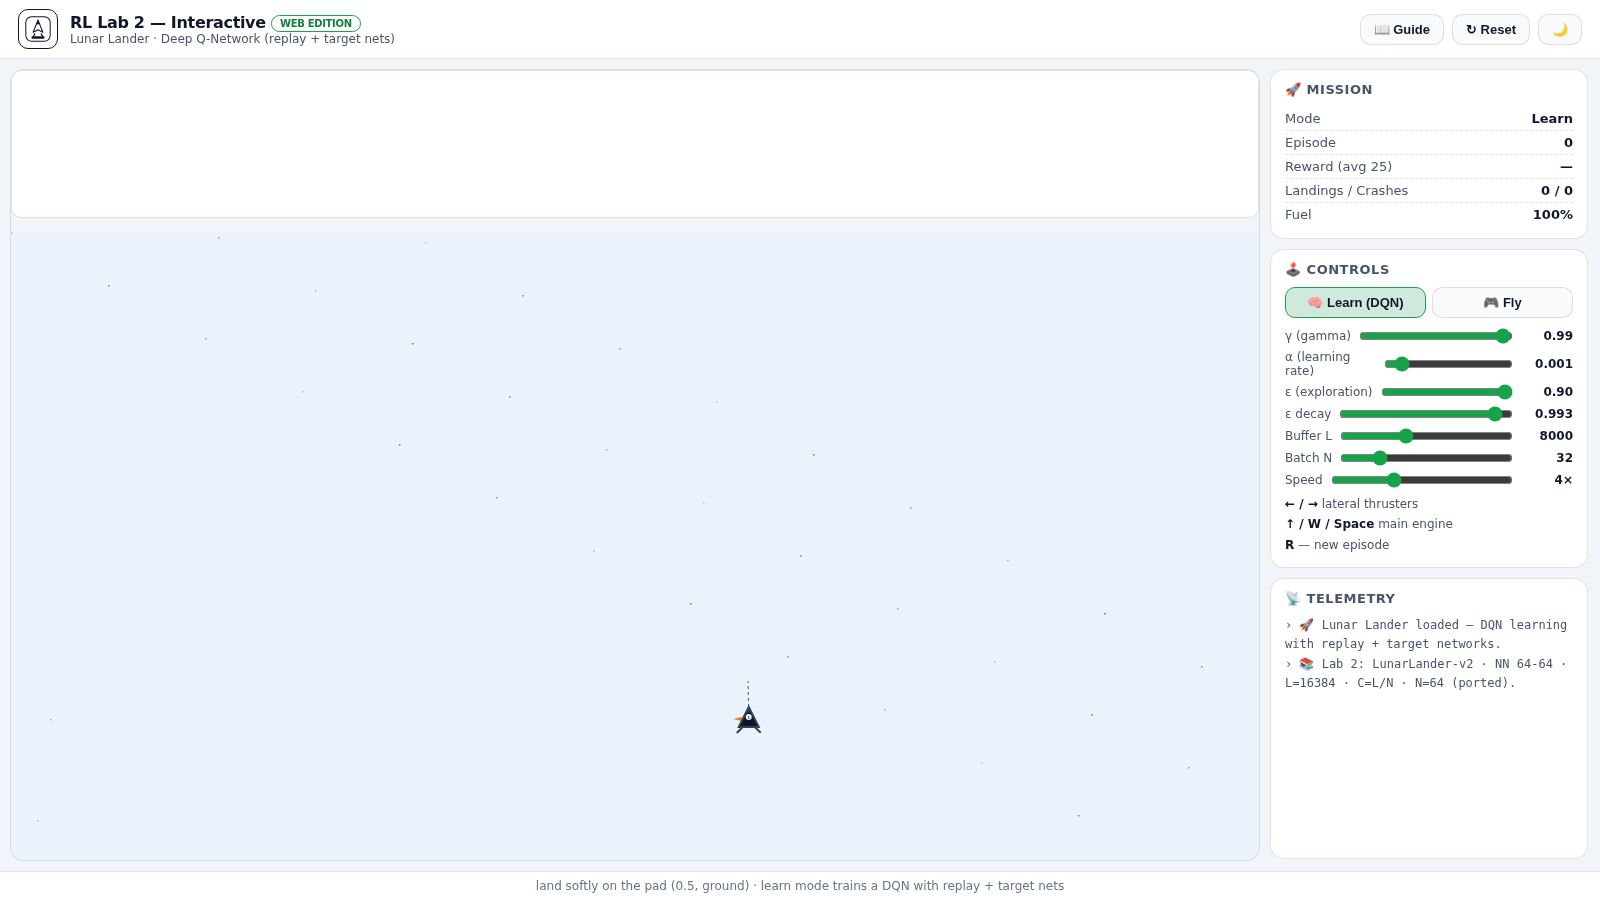
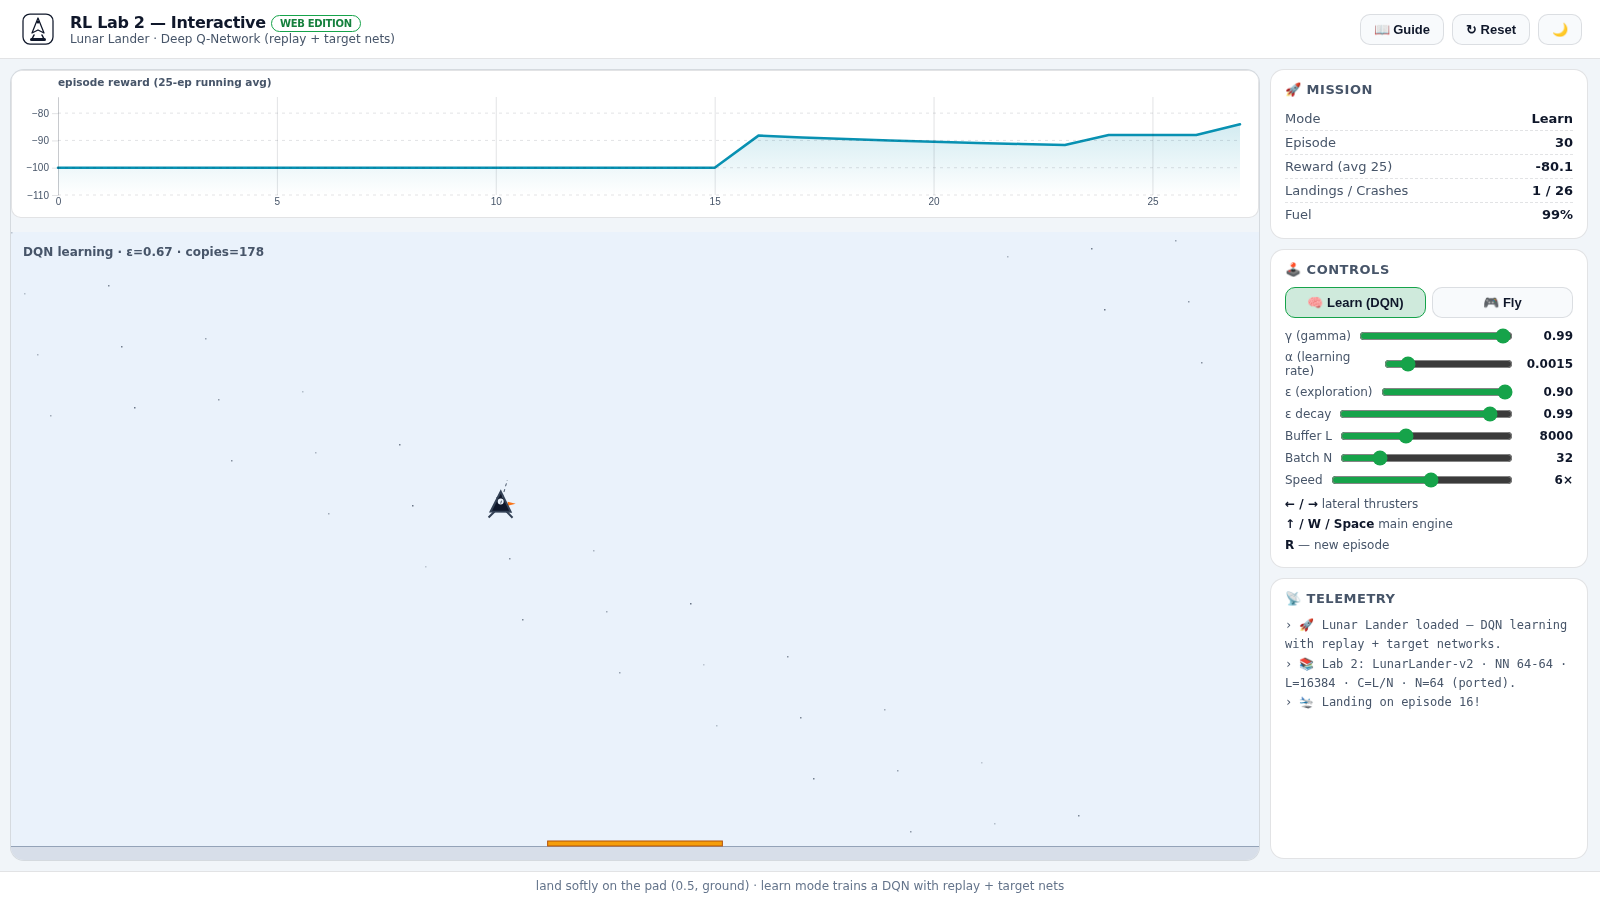
perf: DQN converges 2x faster — tuned defaults (alpha 0.0015, eps decay 0.99, speed 6) + configurable double-DQN flag
benchmarked 6 configs in node: L=8000/C=64/alpha 1.5e-3/decay 0.99 (max-target) wins — first landing episode 22 vs 49, and 2 landings by episode 33 in ~4s at speed 6 in the browser

diff --git a/webgame/index.html b/webgame/index.html
@@ -139,8 +139,8 @@
                 min="0.0001"
                 max="0.01"
                 step="0.0001"
-                value="0.001"
-              /><b id="dqn-alpha-v">0.001</b></label
+                value="0.0015"
+              /><b id="dqn-alpha-v">0.0015</b></label
             >
             <label class="slider-row"
               >ε (exploration)
@@ -161,8 +161,8 @@
                 min="0.9"
                 max="0.9995"
                 step="0.0005"
-                value="0.993"
-              /><b id="dqn-epsdecay-v">0.993</b></label
+                value="0.99"
+              /><b id="dqn-epsdecay-v">0.99</b></label
             >
             <label class="slider-row"
               >Buffer L
@@ -194,8 +194,8 @@
                 min="1"
                 max="10"
                 step="1"
-                value="4"
-              /><b id="dqn-speed-v">4×</b></label
+                value="6"
+              /><b id="dqn-speed-v">6×</b></label
             >
           </div>
           <div class="keys">

diff --git a/webgame/js/rl2-core.js b/webgame/js/rl2-core.js
@@ -193,6 +193,7 @@
       gamma: cfg.gamma,
       alpha: cfg.alpha,
       epsilon: cfg.epsilon,
+      double: !!cfg.double,
       // Adam-lite moments
       m: null,
       v: null,
@@ -239,7 +240,18 @@
 
       var qAll = nnForward(dqn.online, s);
       var targetQ = nnForward(dqn.target, ns);
-      var maxNext = Math.max.apply(null, targetQ);
+      var maxNext;
+      if (dqn.double) {
+        // Double DQN: pick the action with the ONLINE net, value it with the
+        // target net — cuts overestimation, learns faster and more stably
+        var qAllNext = nnForward(dqn.online, ns);
+        var aStar = 0;
+        for (var ai = 1; ai < qAllNext.length; ai++)
+          if (qAllNext[ai] > qAllNext[aStar]) aStar = ai;
+        maxNext = targetQ[aStar];
+      } else {
+        maxNext = Math.max.apply(null, targetQ);
+      }
       var td = r + (done ? 0 : dqn.gamma * maxNext) - qAll[a];
       // clip the TD error (Huber-style stabilisation, standard DQN practice)
       td = Math.max(-20, Math.min(20, td));
